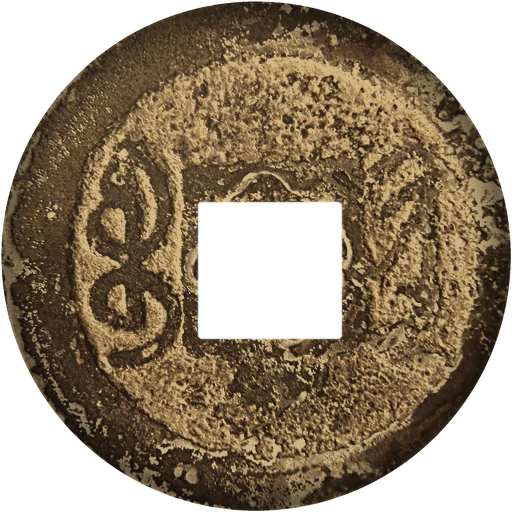
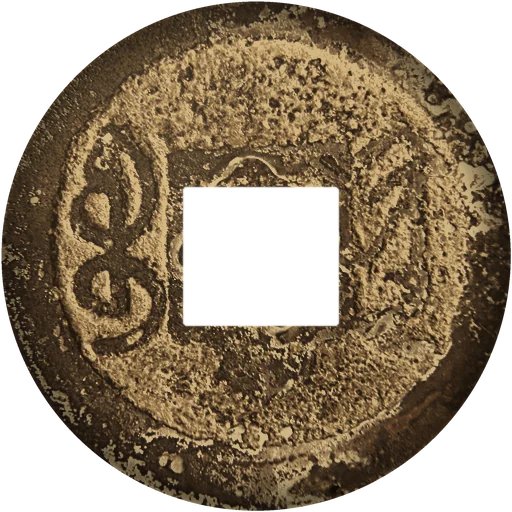
铜钱贴图以方孔为圆心重裁，设计居中

diff --git a/apps/web/scripts/coin-cut.py b/apps/web/scripts/coin-cut.py
@@ -128,15 +128,17 @@ def cut(img, cx, cy, r):
     inv = lim.point(lambda p: 255 - p)
     bb = inv.getbbox()
     hole = Image.new("L", (SIZE, SIZE), 255)
+    hole_center = (SIZE / 2, SIZE / 2)
     if bb:
         ImageDraw.Draw(hole).rounded_rectangle((bb[0] + 1, bb[1] + 1, bb[2] - 1, bb[3] - 1), radius=3, fill=0)
+        hole_center = ((bb[0] + bb[2]) / 2, (bb[1] + bb[3]) / 2)
     hole = hole.filter(ImageFilter.MaxFilter(3)).filter(ImageFilter.GaussianBlur(0.7))
     alpha = Image.composite(alpha, Image.new("L", (SIZE, SIZE), 0), hole)
 
     face = grade(face)
 
     face.putalpha(alpha)
-    return face
+    return face, hole_center
 
 
 def grade(face):
@@ -198,11 +200,15 @@ def main():
         for side, box in zip(("obverse", "reverse"), halves):
             cx, cy, r = find_circle(gray, box)
             ox, oy, k = OVERRIDES.get(f"{tag}-{side}", (0, 0, 1))
-            cx, cy, r = cx + ox * r, cy + oy * r, r * k
-            face = cut(img, cx * 4, cy * 4, r * 4)
+            cx, cy, r = cx * 4 + ox * r * 4, cy * 4 + oy * r * 4, r * 4 * k
+            # 铜钱是铸的，方孔才是真正的中心：按方孔位置把圆心修正过去，再裁一次
+            face, (hx, hy) = cut(img, cx, cy, r)
+            px_per = 2 * r / SIZE
+            dx, dy = (hx - SIZE / 2) * px_per, (hy - SIZE / 2) * px_per
+            face, (hx2, hy2) = cut(img, cx + dx, cy + dy, r * 0.985)
             out = os.path.join(OUT, f"{tag}-{side}.webp")
             face.save(out, "WEBP", quality=86, method=6)
-            print(f"{name} {side}: 圆心 ({cx*4:.0f},{cy*4:.0f}) 半径 {r*4:.0f} → {out} {os.path.getsize(out)//1024}KB")
+            print(f"{name} {side}: 方孔偏离圆心 ({dx:+.0f},{dy:+.0f})px 已修正，复核偏差 ({hx2-SIZE/2:+.1f},{hy2-SIZE/2:+.1f}) → {os.path.basename(out)}")
 
 
 if __name__ == "__main__":
